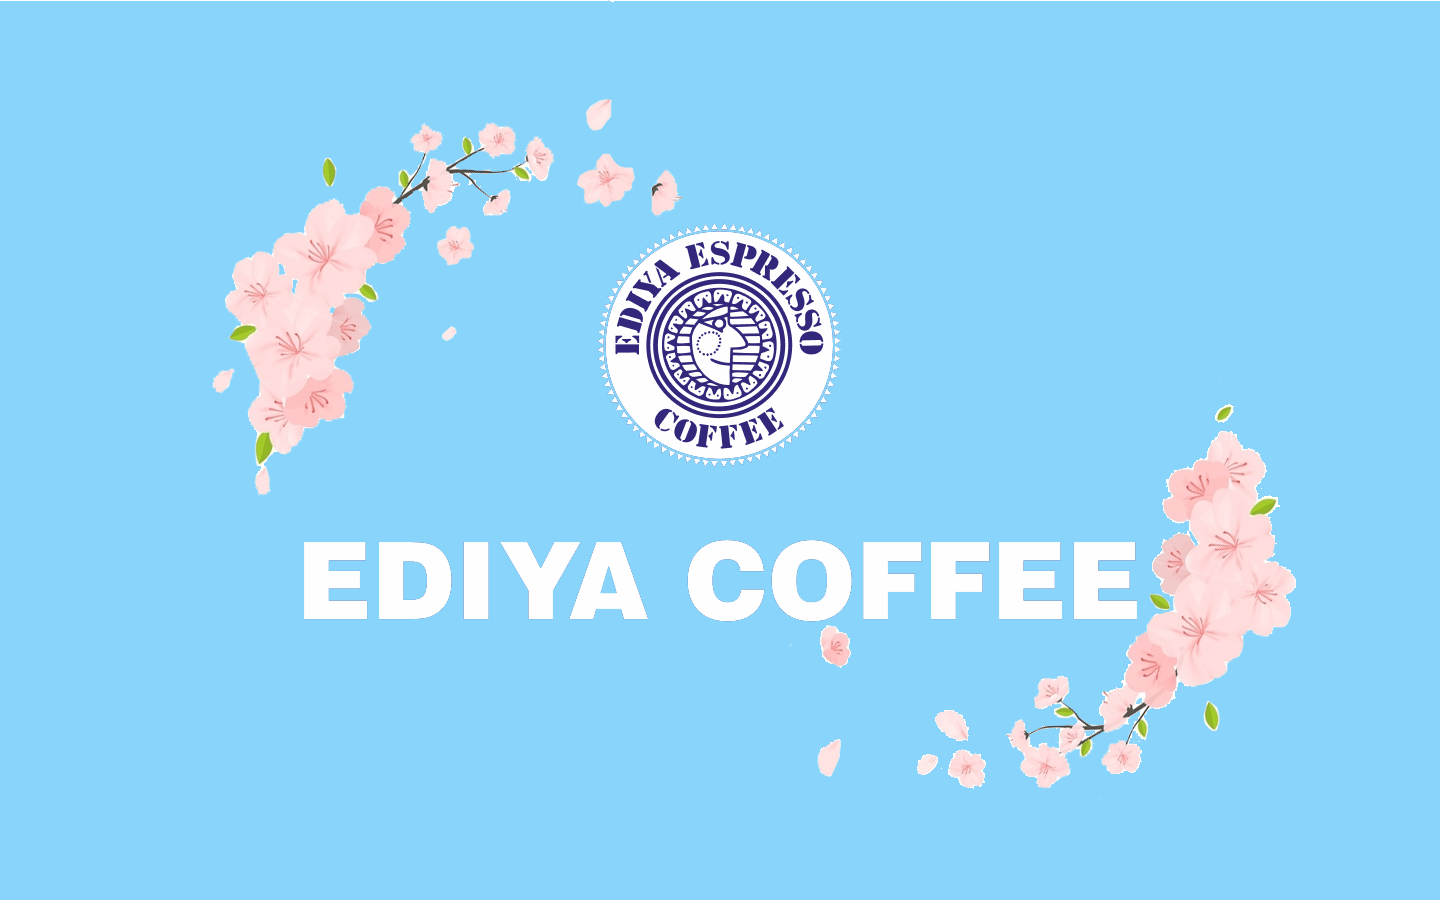
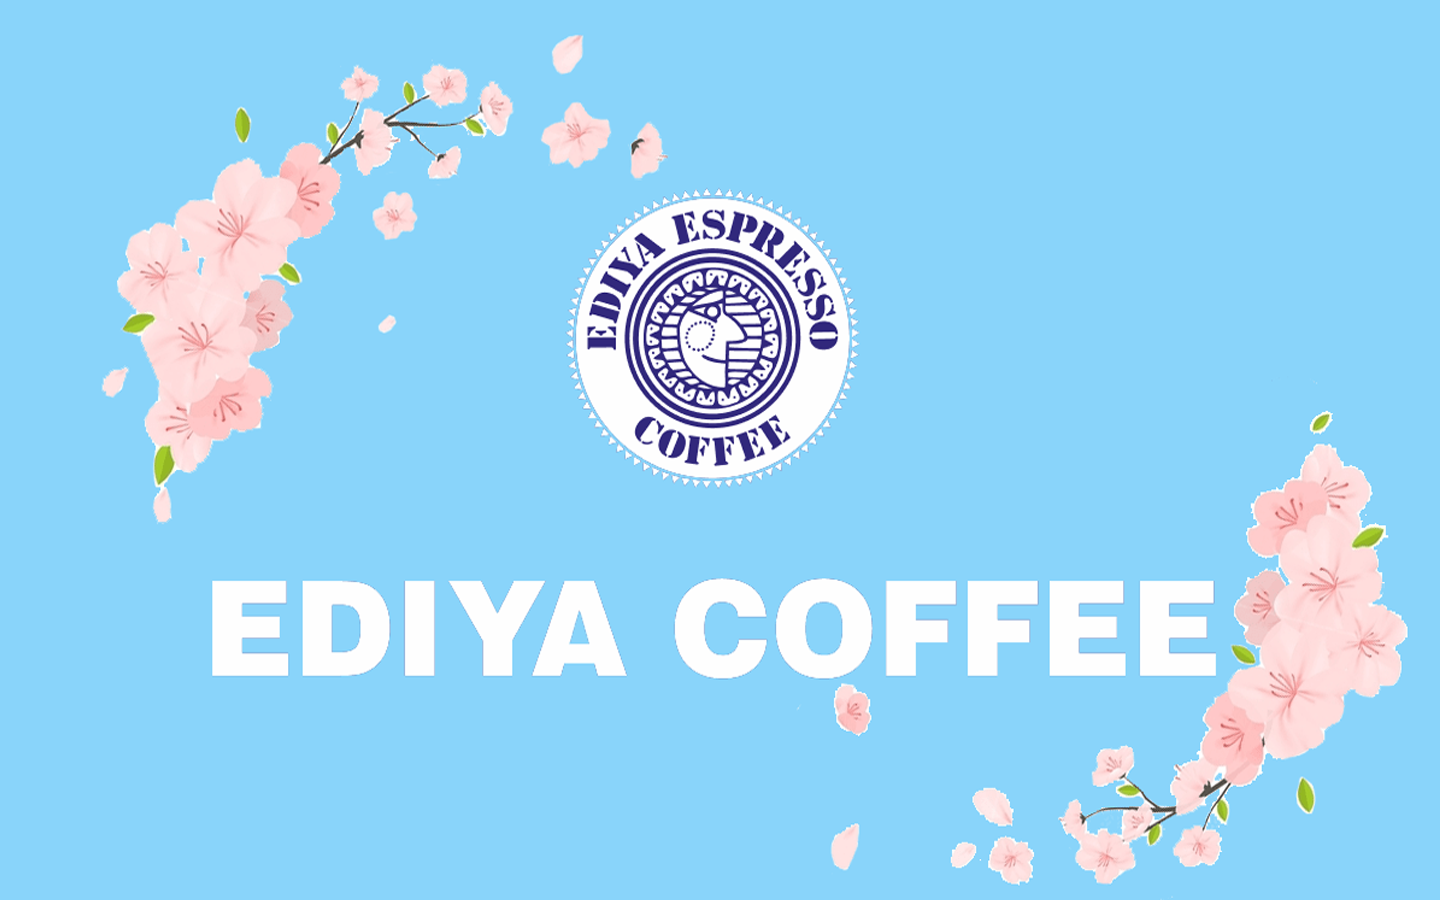
make animation in nav and main

Changed region(s): [[0.125, 0.4356, 1.0, 0.9956], [0.0625, 0.0311, 0.5938, 0.5911], [0.5625, 0.9022, 0.5938, 0.9644]]

diff --git a/index.html b/index.html
@@ -17,32 +17,34 @@
                 <img src="/style/images/Logo.svg" alt="이디야 커피 로고" title="이디야 커피 홈페이지로 이동">
             </a>
         </h1>
+        <!-- 모바일 버전 시작월페이퍼 -->
         <section class="appStartWraper">
-            <h2 class="a11yHidden">어플리케이션 시작</h2>
-            <img class="cherryBlossom1" src="./style/images/벚꽃.png" alt="벚꽃">
-            <img class="cherryBlossom2" src="./style/images/벚꽃.png" alt="벚꽃">
-            <img class="cherryBlossom3" src="./style/images/벚꽃.png" alt="벚꽃">
+            <h2 class="a11yHidden">이디야 커피어플리케이션 시작</h2>
+            <img class="cherryBlossom1" src="./style/images/벚꽃.png" aria-describedby="" alt="벚꽃">
+            <img class="cherryBlossom2" src="./style/images/벚꽃.png" aria-describedby="" alt="벚꽃">
+            <img class="cherryBlossom3" src="./style/images/벚꽃.png" aria-describedby="" alt="벚꽃">
         </section>
         <nav class="navigation">
+            <!-- 숨김 헤딩 -->
             <h2 class="navigationHeading a11yHidden" id="navigationHeading">
-                <!-- 숨김 헤딩 -->
                 메인 네비게이션 영역
             </h2>
-            <button class="openNavigationBtn resetBtn" type="button" title="메뉴열기" aria-label="메뉴열기버튼">
-                <!-- 버거 버튼, 애니 or 냅두기, 클릭이벤트 -->
+            <!-- 버거 버튼, 애니 or 냅두기, 클릭이벤트 -->
+            <button class="resetBtn openNavigationBtn" type="button" title="메뉴열기" aria-label="메뉴열기버튼">
                 <span class="burgerBar1" aria-hidden="true"></span>
                 <span class="burgerBar2" aria-hidden="true"></span>
                 <span class="burgerBar3" aria-hidden="true"></span>
             </button>
+            <!-- 네비게이션 본체 -->
             <section class="navigationBox" aria-labelledby="navigationHeading">
                 <!-- 메뉴닫기 버튼  -->
-                <button class="closeBtn resetBtn" type="button" title="메뉴닫기" aria-label="메뉴닫기버튼">
+                <button class="resetBtn closeBtn" type="button"  title="메뉴닫기" aria-label="메뉴닫기버튼">
                     메뉴닫기버튼
                     <span class="cross1" aria-hidden="true"></span>
                     <span class="cross2" aria-hidden="true"></span>
                 </button>
+                <!-- 본 메뉴 리스트 li에 p-top, hover:tranform  -->
                 <ul class="navigationLists resetMargin">
-                    <!-- 본 메뉴 리스트 li에 p-top, hover:tranform  -->
                     <li><a class="navigationItems" href="#">메뉴</a></li>
                     <li><a class="navigationItems" href="#">이디야 멤버스</a></li>
                     <li><a class="navigationItems" href="#">이디야 커피랩</a></li>
@@ -53,30 +55,39 @@
             </section>
         </nav>
     </header>
+    <!-- 여기부터 메인 -->
     <main class="main">
+        <!-- 메인 섹션 숨김처리-->
         <h2 class="a11yHidden">
-            <!-- 메인 섹션 숨김처리-->
             이디야 커피 메뉴들
         </h2>
+        <!-- 메뉴 박스 섹션 -->
         <section class="menuSection">
+            <!-- 메뉴 리스트 헤딩 숨김처리  -->
             <h3 class="a11yHidden">
                 이디야 메뉴 리스트
-                <!-- 메뉴 리스트 헤딩 숨김처리  -->
             </h3>
+            <!-- 메뉴 리스트 flex,li 클릭이벤트 -->
             <ul class="menuLists">
-                <!-- 메뉴 리스트 flex, 클릭이벤트 -->
-                <li class="menuList">
+                <li class="menuList" role="button">
+                    <!-- 메뉴 사진 박스 -->
                     <figure class="resetMargin">
                         <img class="menuImg" src="./style/images/ice벗꽃라떼.png" alt="ice벗꽃라떼">
                         <figcaption>ICED 벚꽃라떼</figcaption>
                     </figure>
+                    <!-- 메뉴 상세정보 -->
                     <dl class="menuExplain resetMargin">
+                        <!-- 메뉴타이틀 -->
                         <dt class="menuTitle">ICED 벚꽃라떼
                             <span>Cherry Blossom Latte</span>
                         </dt>
+                        <!-- 의미없는 구분선 -->
                         <dd class="divideBar" aria-hidden="true"></dd>
+                        <!-- 메뉴 묘사 -->
                         <dd class="menuDescription resetMargin">은은한 벚꽃향과 라즈베리 화이트 초콜릿 토핑이 올라간 핑크빛 라떼</dd>
+                      <!-- 메뉴 성분 분석표 -->
                         <dd class="menuIngredient resetMargin">
+                            <!-- 가로 border=collapse -->
                             <table class="menuIngredientTable">
                                 <tr>
                                     <th scope="row">칼로리</th>
@@ -98,8 +109,9 @@
                                 </tr>
                             </table>
                         </dd>
+                        <!-- 상세정보 닫기버튼 -->
                         <dd>
-                            <button class="resetBtn closeBtn exampleBtn" aria-label="메뉴 상세 설명 닫기">
+                            <button type="button" class="resetBtn closeBtn exampleBtn" aria-label="메뉴 상세 설명 닫기">
                                 <span class="cross1" aria-hidden="true"></span>
                                 <span class="cross2" aria-hidden="true"></span>
                             </button>
@@ -150,10 +162,10 @@
                 <li class="menuList">
                     <figure class="resetMargin">
                         <img src="./style/images/ice브라우니쇼콜라.png" alt="ice 브라우니 쇼콜라">
-                        <figcaption>ice 브라우니 쇼콜라</figcaption>
+                        <figcaption>ICED 브라우니 쇼콜라</figcaption>
                     </figure>
                     <dl class="menuExplain resetMargin">
-                        <dt class="menuTitle"> ice 브라우니 쇼콜라
+                        <dt class="menuTitle"> ICED 브라우니 쇼콜라
                             <span>Brownie Chocolate</span>
                         </dt>
                         <dd class="divideBar" aria-hidden="true"></dd>
@@ -191,10 +203,10 @@
                 <li class="menuList">
                     <figure class="resetMargin">
                         <img src="./style/images/hot브라우니쇼콜라.png" alt="Hot 브라우니 쇼콜라">
-                        <figcaption>hot 브라우니 쇼콜라</figcaption>
+                        <figcaption>HOT 브라우니 쇼콜라</figcaption>
                     </figure>
                     <dl class="menuExplain resetMargin">
-                        <dt class="menuTitle">hot 브라우니 쇼콜라
+                        <dt class="menuTitle">HOT 브라우니 쇼콜라
                             <span>Brownie Chocolate</span>
                         </dt>
                         <dd class="divideBar" aria-hidden="true"></dd>

diff --git a/style/index.css b/style/index.css
@@ -56,25 +56,15 @@ th{
     padding: 0 20px;
     color:#31287c;
     font-weight: bold;
+
 }
+
 .headerHeading a img{
     width: auto;
     height: 50%;
 }
 /* 모바일 어플리케이션 시작 wraper */
-.appStartWraper{
-    position: absolute;
-    top:0;
-    left: 0;
-    width: 100vw;
-    height: 100vh;
-    background-image: url("./images/이디야커버이미지.png");
-    background-size: cover;
-    background-repeat: no-repeat;
-    background-position: 0 -70px;
-    z-index: 1000;
-    animation: opening 4s 1 forwards;
-}
+
 @keyframes opening{
     0%{
         opacity: 1;
@@ -95,17 +85,17 @@ th{
 .cherryBlossom1{
     top:-60px;
     left: 50%;
-    animation: cherryBlossom1 3.5s forwards;
+    animation: cherryBlossom1 4s ease forwards;
 }
 .cherryBlossom2{
     top:-60px;
     left: 25%;
-    animation: cherryBlossom2 3.5s forwards
+    animation: cherryBlossom2 4s ease forwards
 }
 .cherryBlossom3{
     top:-60px;
     left: 70%;
-    animation: cherryBlossom3 3.5s forwards
+    animation: cherryBlossom3 4s ease forwards
 }
 @keyframes cherryBlossom1{
     0%{
@@ -225,14 +215,7 @@ th{
 .cross2{
     transform: rotate(-45deg);
 }
-/* 메뉴 리스트 */
-.menuLists li a{
-    border-bottom: 1px solid rgba(24, 24, 181, 0.3);
-    display:block;
-    font-size: 1em;
-    color:#fff;
-    padding: 15px 0 15px 30px;
-}
+
 /* 메인 섹션 공통 코드 */
 .main{
     width: 80%;
@@ -246,22 +229,26 @@ th{
     margin:0 auto;
     padding: 40px 0;
 }
-
-
-
 /* 메인메뉴 */
 .menuLists{
-    margin:0 auto;
     width:100%;
     display:flex;
     justify-content: space-between;
     flex-flow: wrap;
 }
+/* 메뉴 리스트 */
 .menuList{
     cursor: pointer;
     position: relative;
 }
 
+.menuLists li a{
+    border-bottom: 1px solid rgba(24, 24, 181, 0.3);
+    display:block;
+    font-size: 1em;
+    color:#fff;
+    padding: 15px 0 15px 30px;
+}
 .menuList figure{
     box-sizing: border-box;
     width:100%;
@@ -286,6 +273,7 @@ figure img{
     padding: 10px 0 20px 0;
 }
 /* 메뉴 상세 */
+
 /* 메뉴 상세 설명 박스 */
 .menuExplain{
     position: absolute;
@@ -302,7 +290,6 @@ figure img{
     display:none
 }
 /* 이벤트 사용을 위한 모듈 */
-/* opacity 보이기 */
 .show{
     display:block;
     cursor: text;
@@ -331,9 +318,10 @@ figure img{
     margin:0 auto;
     border-collapse: collapse;
 }
-.menuIngredientTable tr td{
+.menuIngredientTable tr td,.menuIngredientTable tr th{
     font-size: 0.8em;
     padding: 0 10px;
+    white-space: nowrap;
 }
 .menuIngredientTable tr th:nth-child(n+2){
     border-left: 1px solid #000;
@@ -355,6 +343,25 @@ figure img{
     .menuList:not(:first-child){
         margin-top: 20px;
     }
+    /* 모바일 어플리케이션 시작 wraper */
+    .appStartWraper{
+        position: absolute;
+        top:0;
+        left: 0;
+        width: 100vw;
+        height: 100vh;
+        background-color: #89d4fa;
+        background-image: url("./images/이디야커버이미지2x.png");
+        background-size: contain;
+        background-repeat: no-repeat;
+        background-position: 0 35%;
+        border: 1px solid #89d4fa;
+        z-index: 1000;
+        animation: opening 4s 1 forwards;
+    }
+    /* .appStartWraper{
+        background-position: 0 50%;
+    } */
 }
 @media(min-width:530px){
     .main{
@@ -365,5 +372,63 @@ figure img{
     }
     .menuList:nth-child(n+3){
         margin-top: 30px;
+    }
+    .headerHeading a{
+        transform: translateX(-100%);
+        animation: logo 1s forwards 1s;
+    }
+    @keyframes logo{
+        0%{
+            transform: translateX(-100%);
+            opacity: 0;
+        }
+        100%{
+            transform: translateX(0);
+            opacity: 1;
+        }
+    }
+    .openNavigationBtn{
+        transform: translateX(100%);
+        animation: btn 1s forwards 1s;
+    }
+    @keyframes btn {
+        0%{
+            transform: translateX(100%);
+            opacity: 0;
+        }
+        100%{
+            transform: translateX(0);
+            opacity: 1;
+        }
+    }
+    .menuList{
+        transform: translateY(-50px);
+        animation: MenuList 1s forwards 2s;
+        opacity: 0;
+    }
+    .menuList:nth-child(2){
+        transform: translateY(-50px);
+        animation: MenuList 1s forwards 2.2s;
+        opacity: 0;
+    }
+    .menuList:nth-child(3){
+        transform: translateY(-50px);
+        animation: MenuList 1s forwards 2.4s;
+        opacity: 0;
+    }
+    .menuList:nth-child(4){
+        transform: translateY(-50px);
+        animation: MenuList 1s forwards 2.6s;
+        opacity: 0;
+    }
+    @keyframes MenuList {
+        0%{
+            transform: translateY(50px);
+            opacity: 0;
+        }
+        100%{
+            transform: translateY(0);
+            opacity: 1;
+        }
     }
 }

diff --git a/script/index.js b/script/index.js
@@ -59,10 +59,15 @@ for(var i=0; i < exampleCloseBtn.length; i++){
     })
 }
 
+
 var appStartWraper = document.querySelector(".appStartWraper");
-window.addEventListener("load",function(e){
-    // appStartWraper.style.animation="opening 4s 1 forword"
-    setTimeout(function(e){
-        appStartWraper.style.display="none"
-    }, 4100);
-})
+if(document.body.offsetWidth < 530){
+    window.addEventListener("load",function(e){
+        // appStartWraper.style.animation="opening 4s 1 forword"
+        setTimeout(function(e){
+            appStartWraper.style.display="none"
+        }, 5000);
+    })
+}else{
+    appStartWraper.style.display="none"
+}

diff --git a/2020-04-06 _프로젝트 회의_.md b/2020-04-06 _프로젝트 회의_.md
@@ -1,0 +1,29 @@
+# 2020-04-06 <프로젝트 회의>
+1. 로고  이미지 텍스트 처리 방안
+토론 결과 : aria-lable이용해서 이미지로 처리, title 사용 target_blank
+
+ 
+2. 네비게이션 버튼 정의
+토론 결과 : 버튼을 네비게이션의 영역으로 볼 것인지 header의 영역으로 볼 것인지
+로고: 앵커가 되서 누르면 홈페이지로 넘어감
+
+aira-lable 
+title
+target:_blank
+nav:
+네비게이션 햄버거
+
+title은 스크린리더기가 읽어주지 않는 경우가 많기 때문에 aira-label을 같이 써줌 
+header에 z-index;
+button ->header에 fixed가 들어가니까 btn은  header를 기준으로 감
+section-> absolute를 주고 대신 vh vw 단위
+li-> padding20px씩 고정시킴
+transform, transition-> 글자 고정
+
+
+합리적으로 짤 것.
+
+
+                    
+
+#코딩공부 #프로젝트
